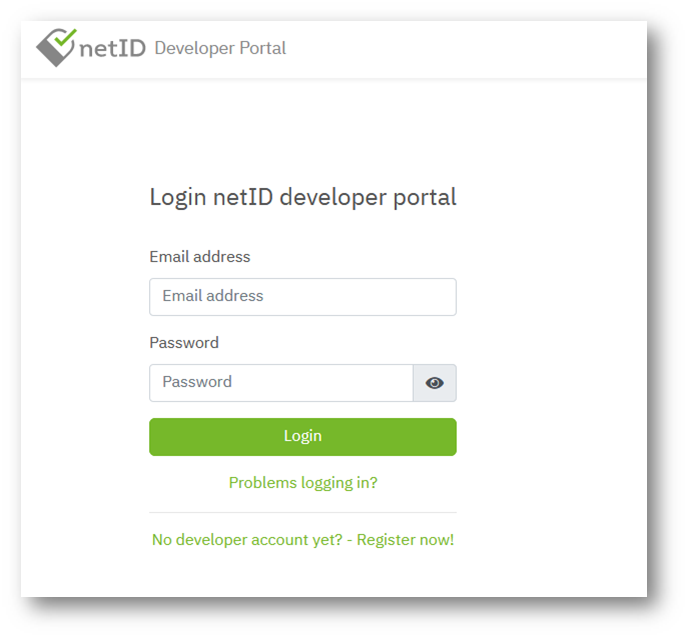
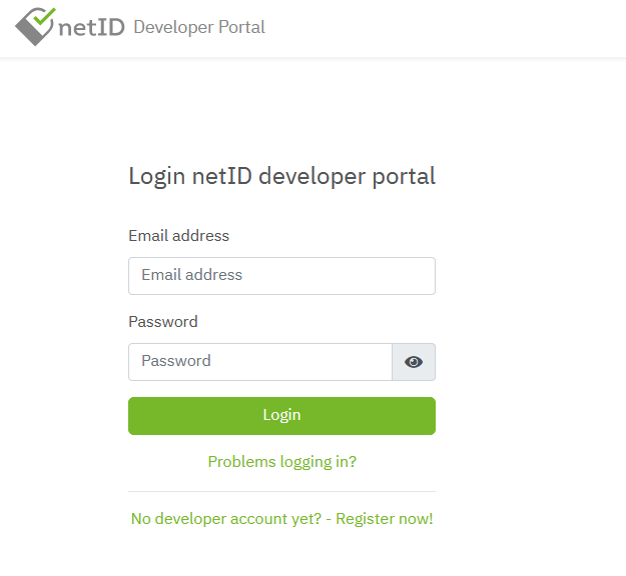
Deployed c278211 with MkDocs version: 1.0.4

diff --git a/stylesheets/extra.css b/stylesheets/extra.css
@@ -130,3 +130,8 @@ html .md-footer-meta.md-typeset a:focus, html .md-footer-meta.md-typeset a:hover
 .md-typeset .admonition.info, .md-typeset .admonition.todo, .md-typeset details.info, .md-typeset details.todo {
   border-left-color:#76b82a;
 }
+
+img {
+  border-style:none;
+  box-shadow: 0 4px 8px 0 rgba(0, 0, 0, 0.2), 0 6px 20px 0 rgba(0, 0, 0, 0.19);
+  }
